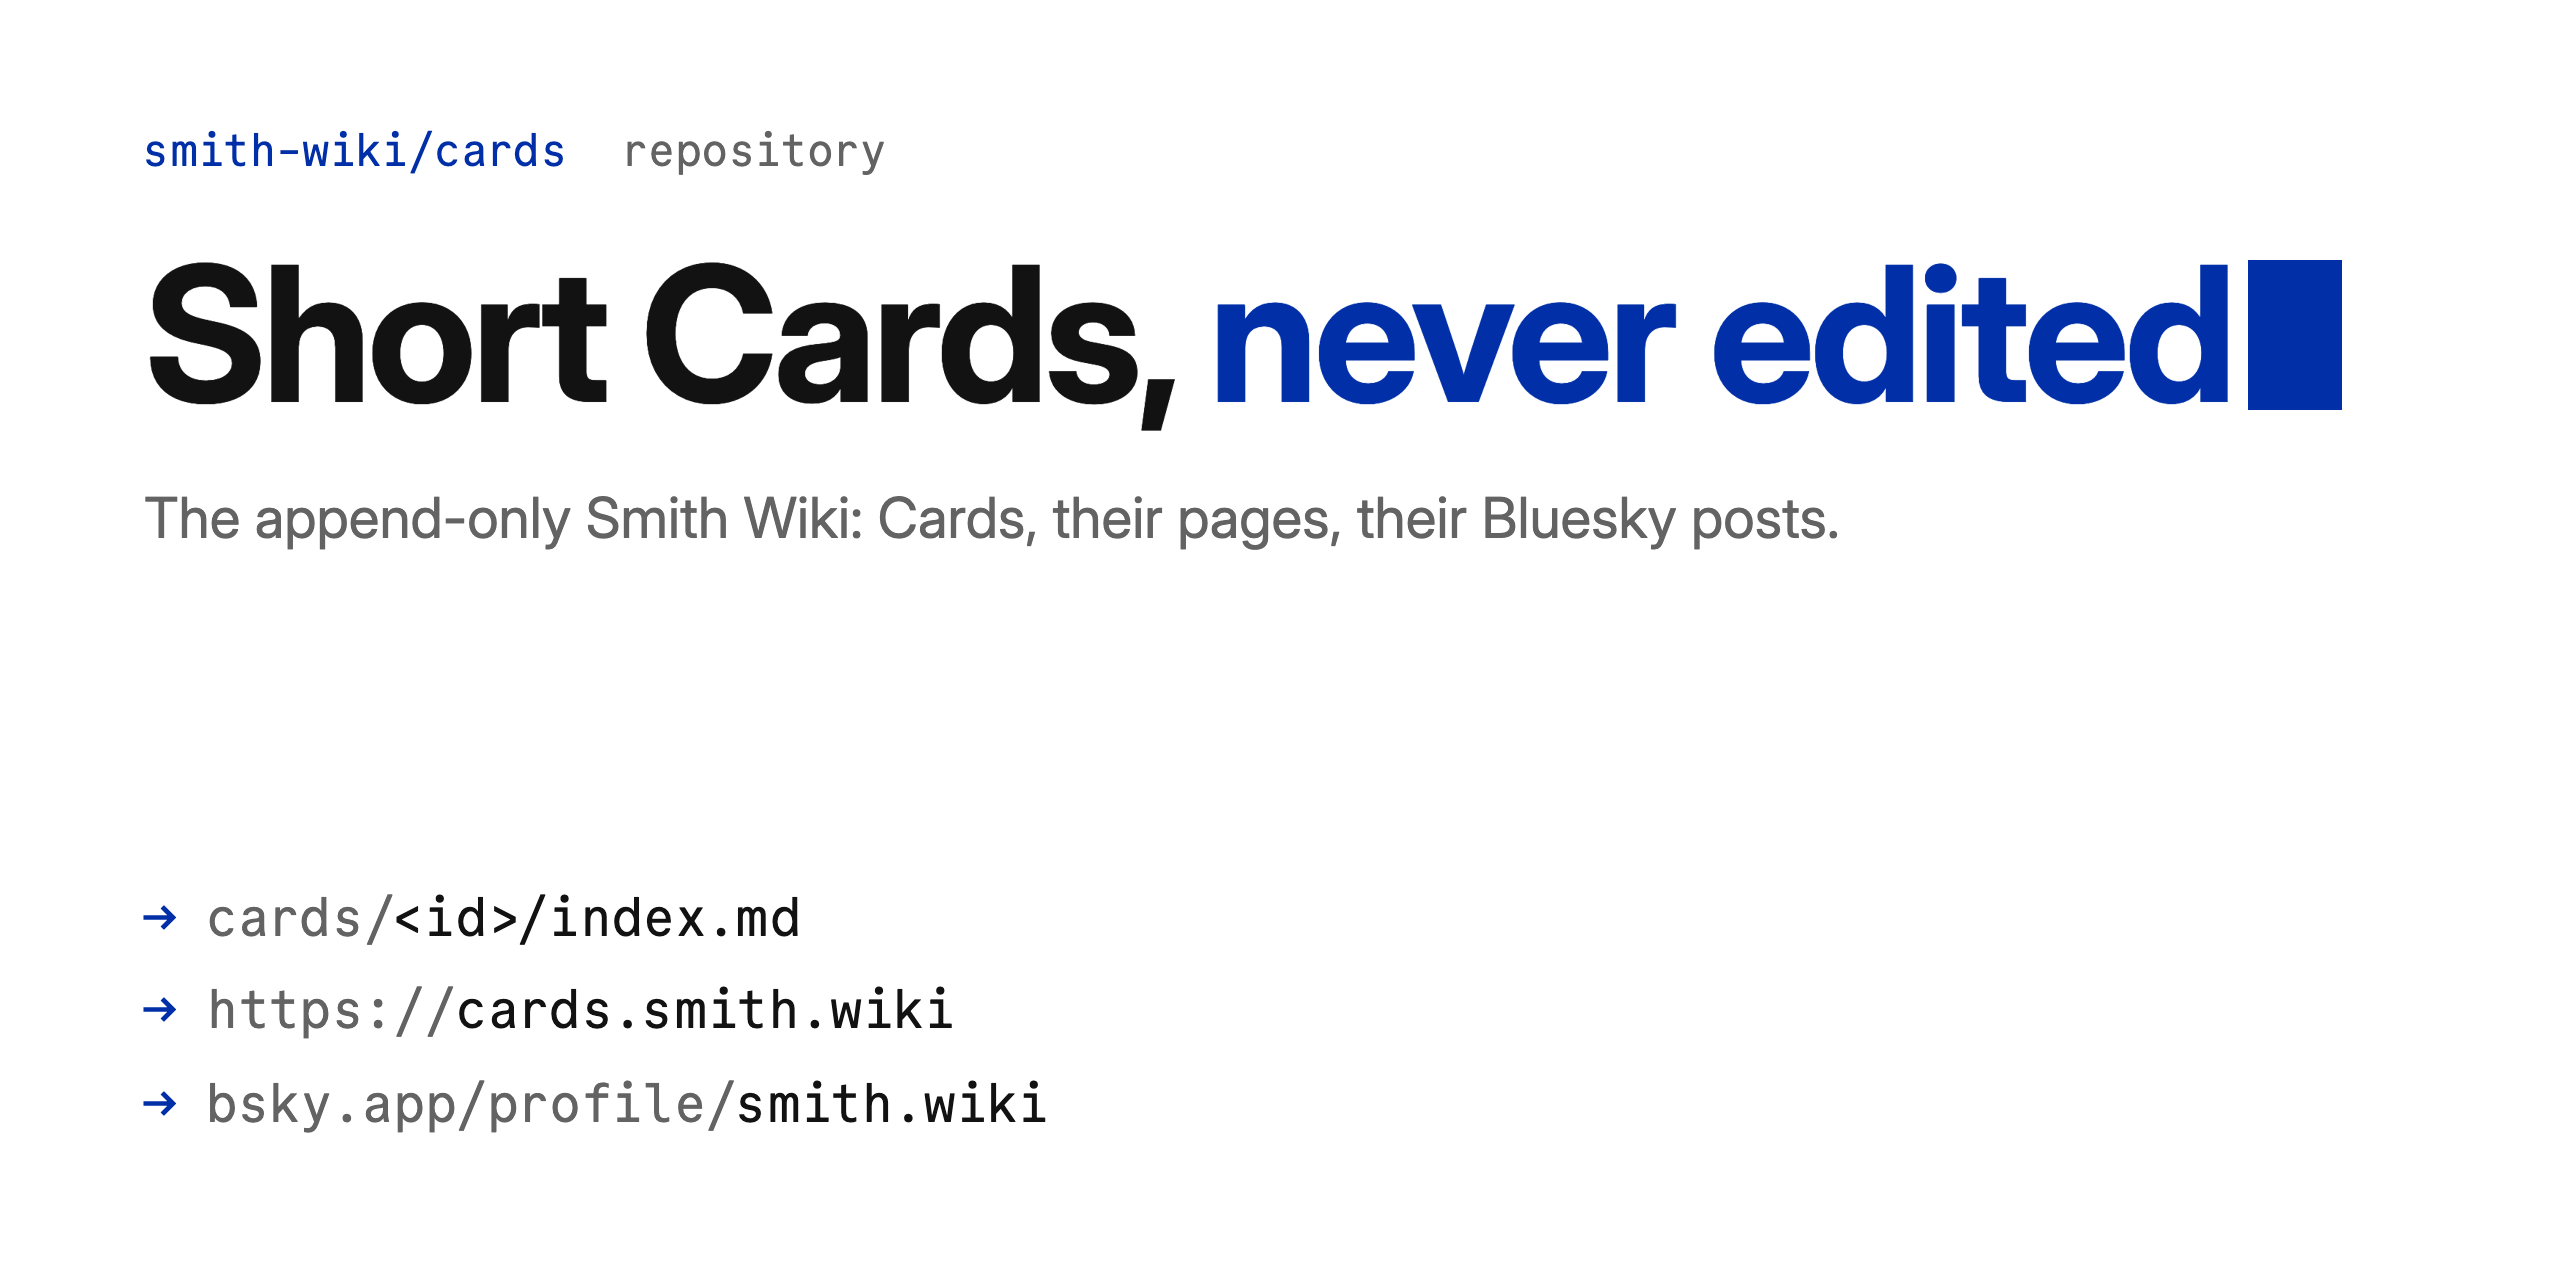
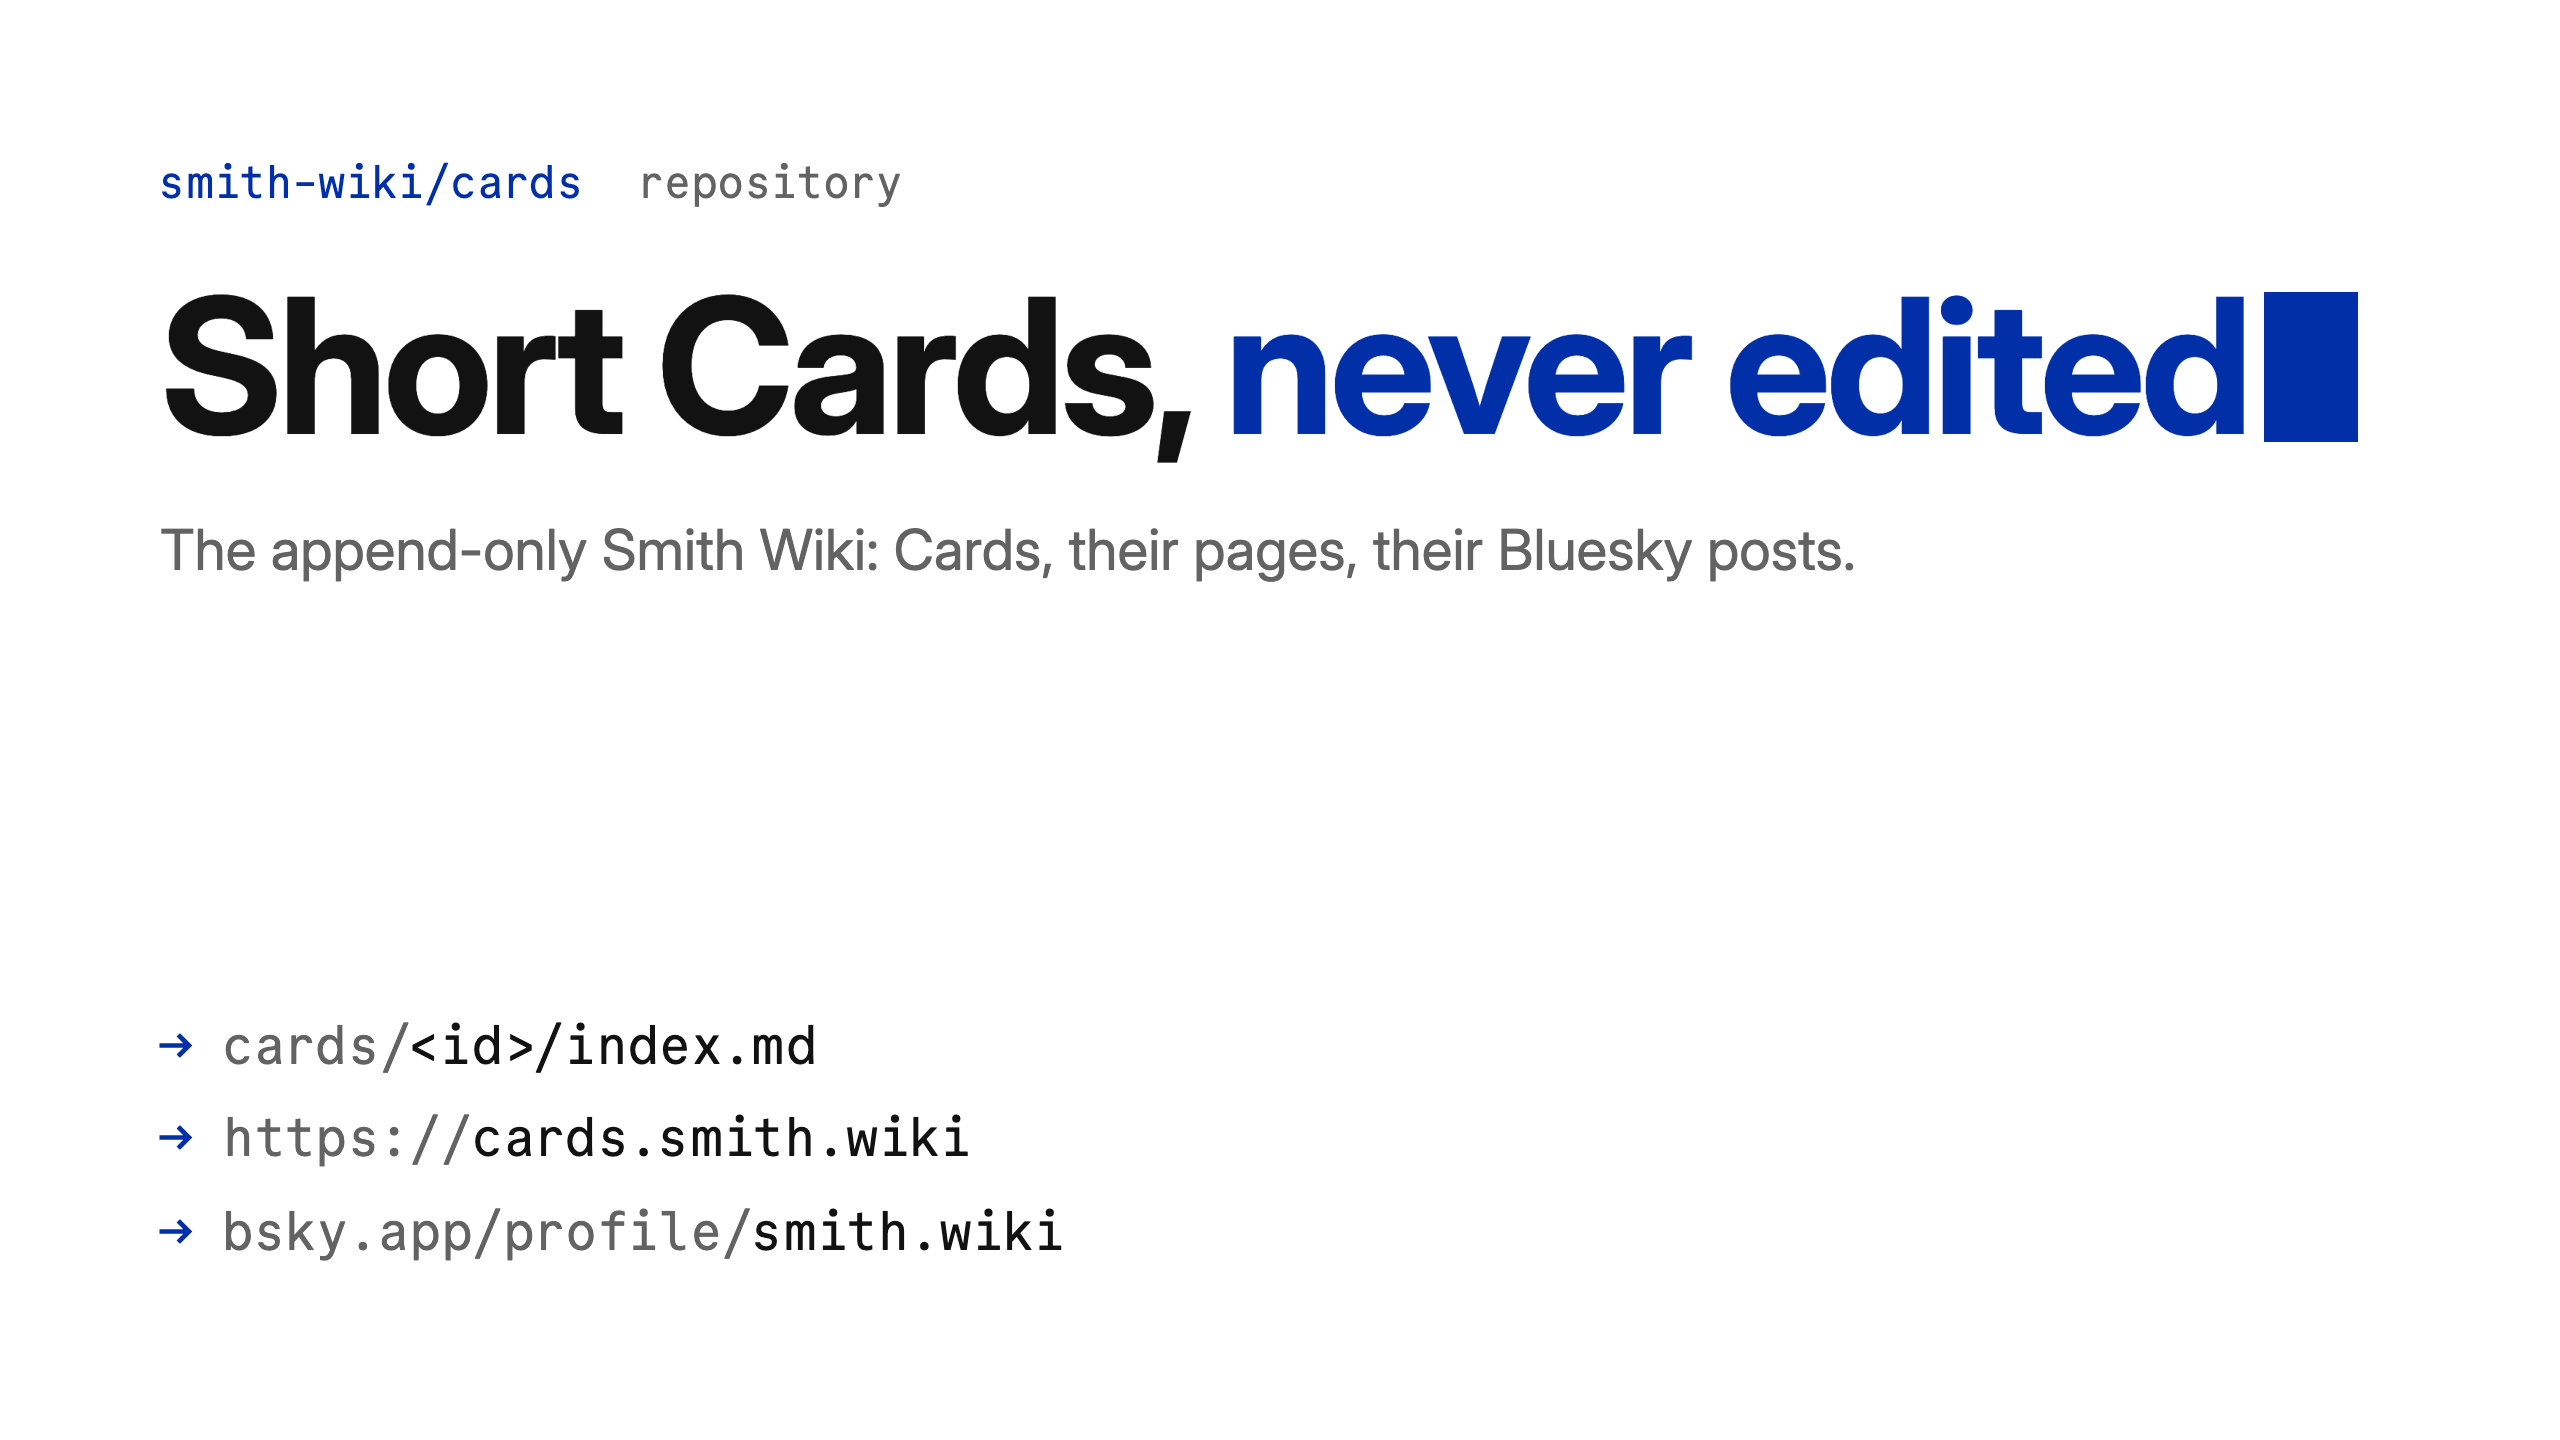
Social preview: 16:9 so it posts uncropped as an image

diff --git a/.github/social-preview.html b/.github/social-preview.html
@@ -1,6 +1,7 @@
 <!doctype html>
 <!-- Source of .github/social-preview.png, the repository's GitHub social preview
-     (1280 x 640, rendered at 2x in the light theme). Static image:
+     (1280 x 720, 16:9, rendered at 2x in the light theme; link previews crop it to
+     about 1.91:1, which the 80px top and bottom padding absorbs). Static image:
      the Klein block does not blink. -->
 <html lang="en">
 <head>
@@ -9,7 +10,7 @@
 <style>
   * { box-sizing: border-box; }
   body { margin: 0; }
-  .d { width: 1280px; height: 640px; padding: 64px 72px; display: flex; flex-direction: column;
+  .d { width: 1280px; height: 720px; padding: 80px 80px; display: flex; flex-direction: column;
        background: var(--bg); color: var(--fg); font-family: var(--font-text); }
   .stamp { font: 400 22px/1 var(--font-mono); color: var(--grey); display: flex; gap: 28px; }
   .stamp b { font-weight: 400; color: var(--blue); }
